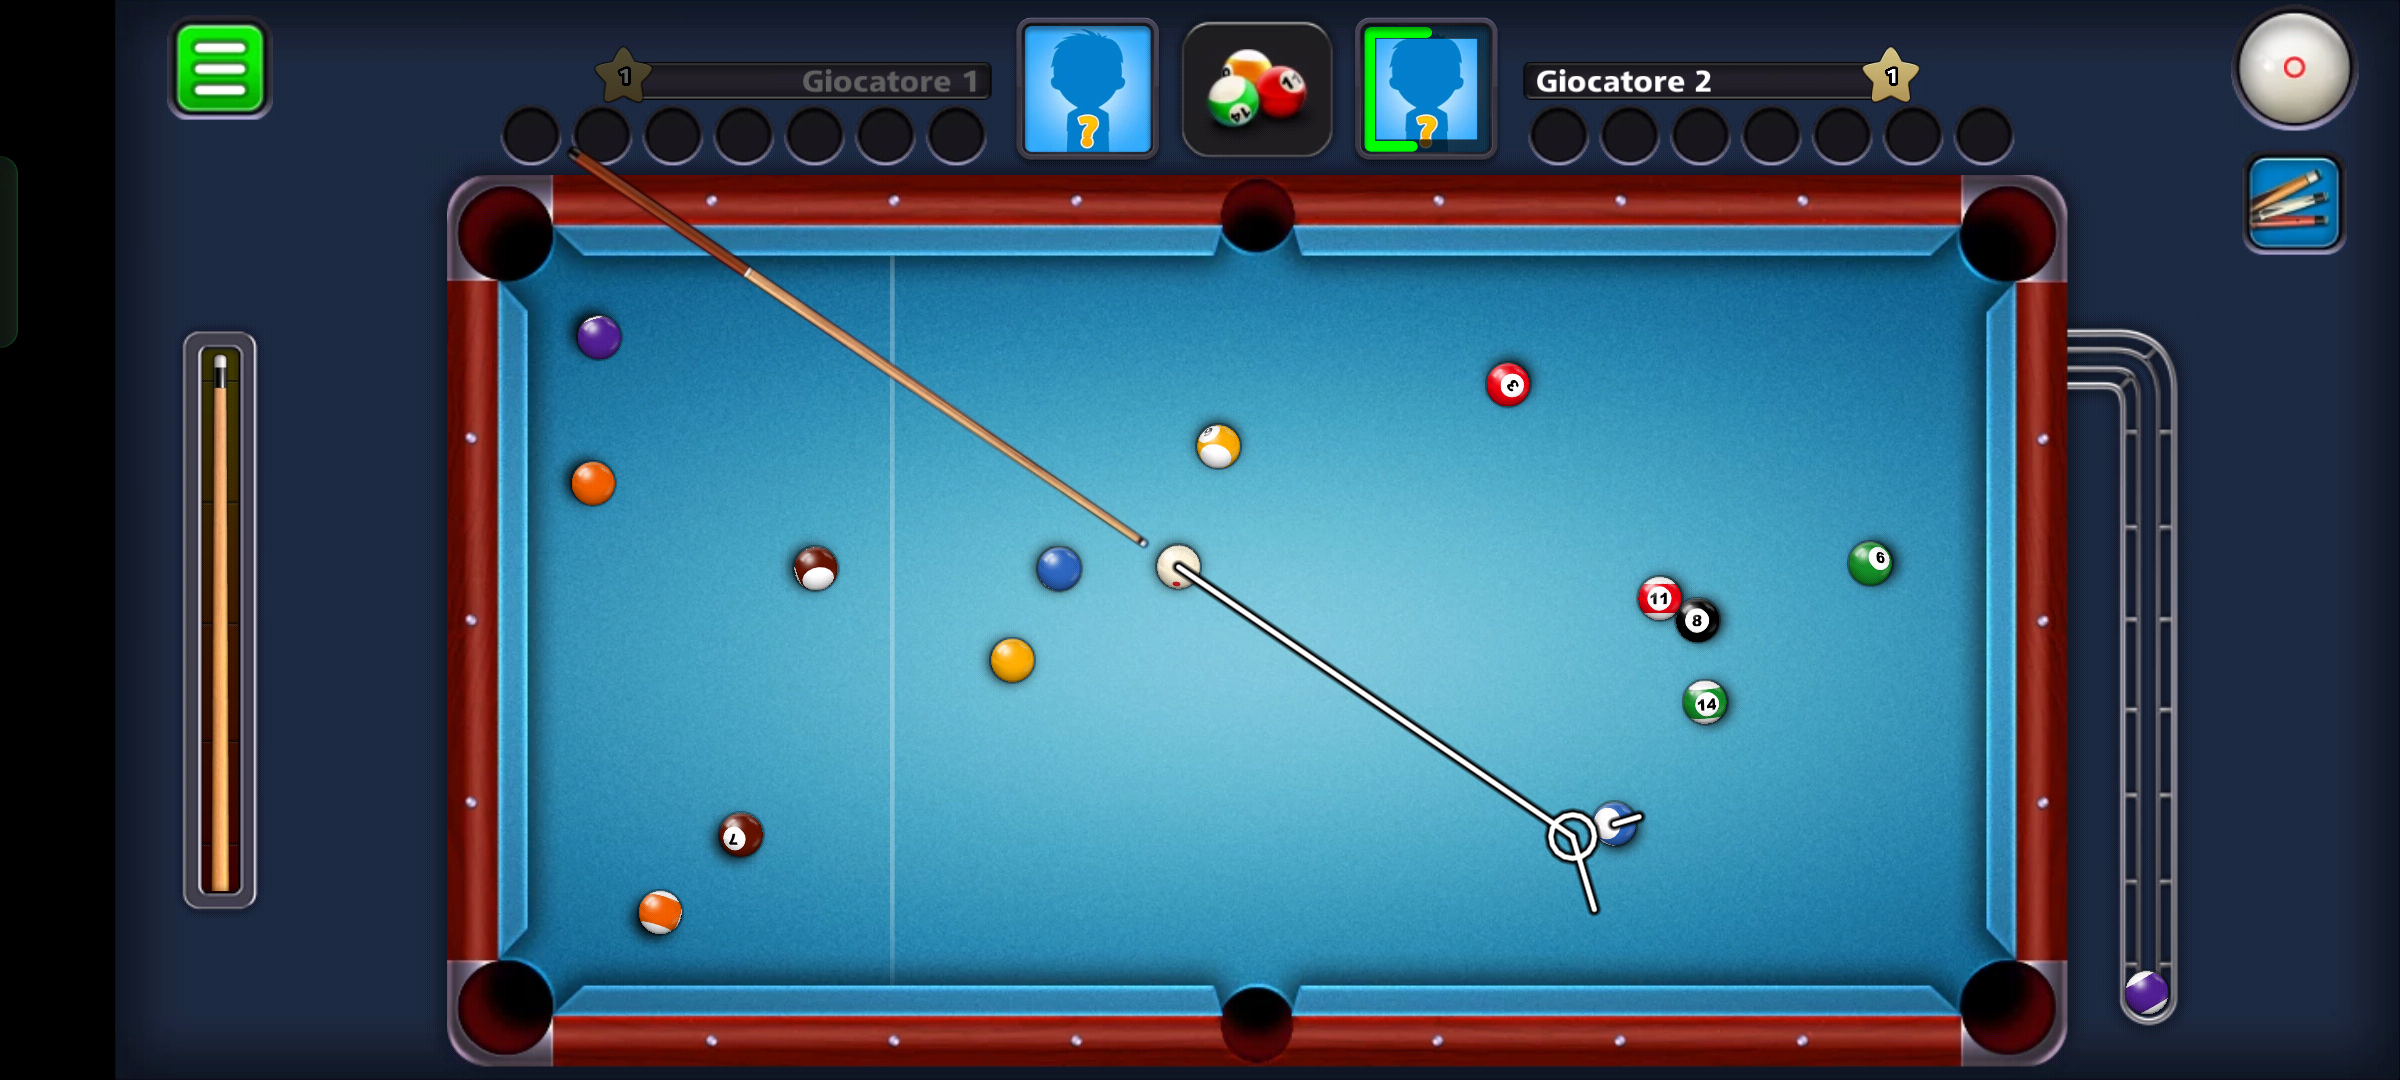
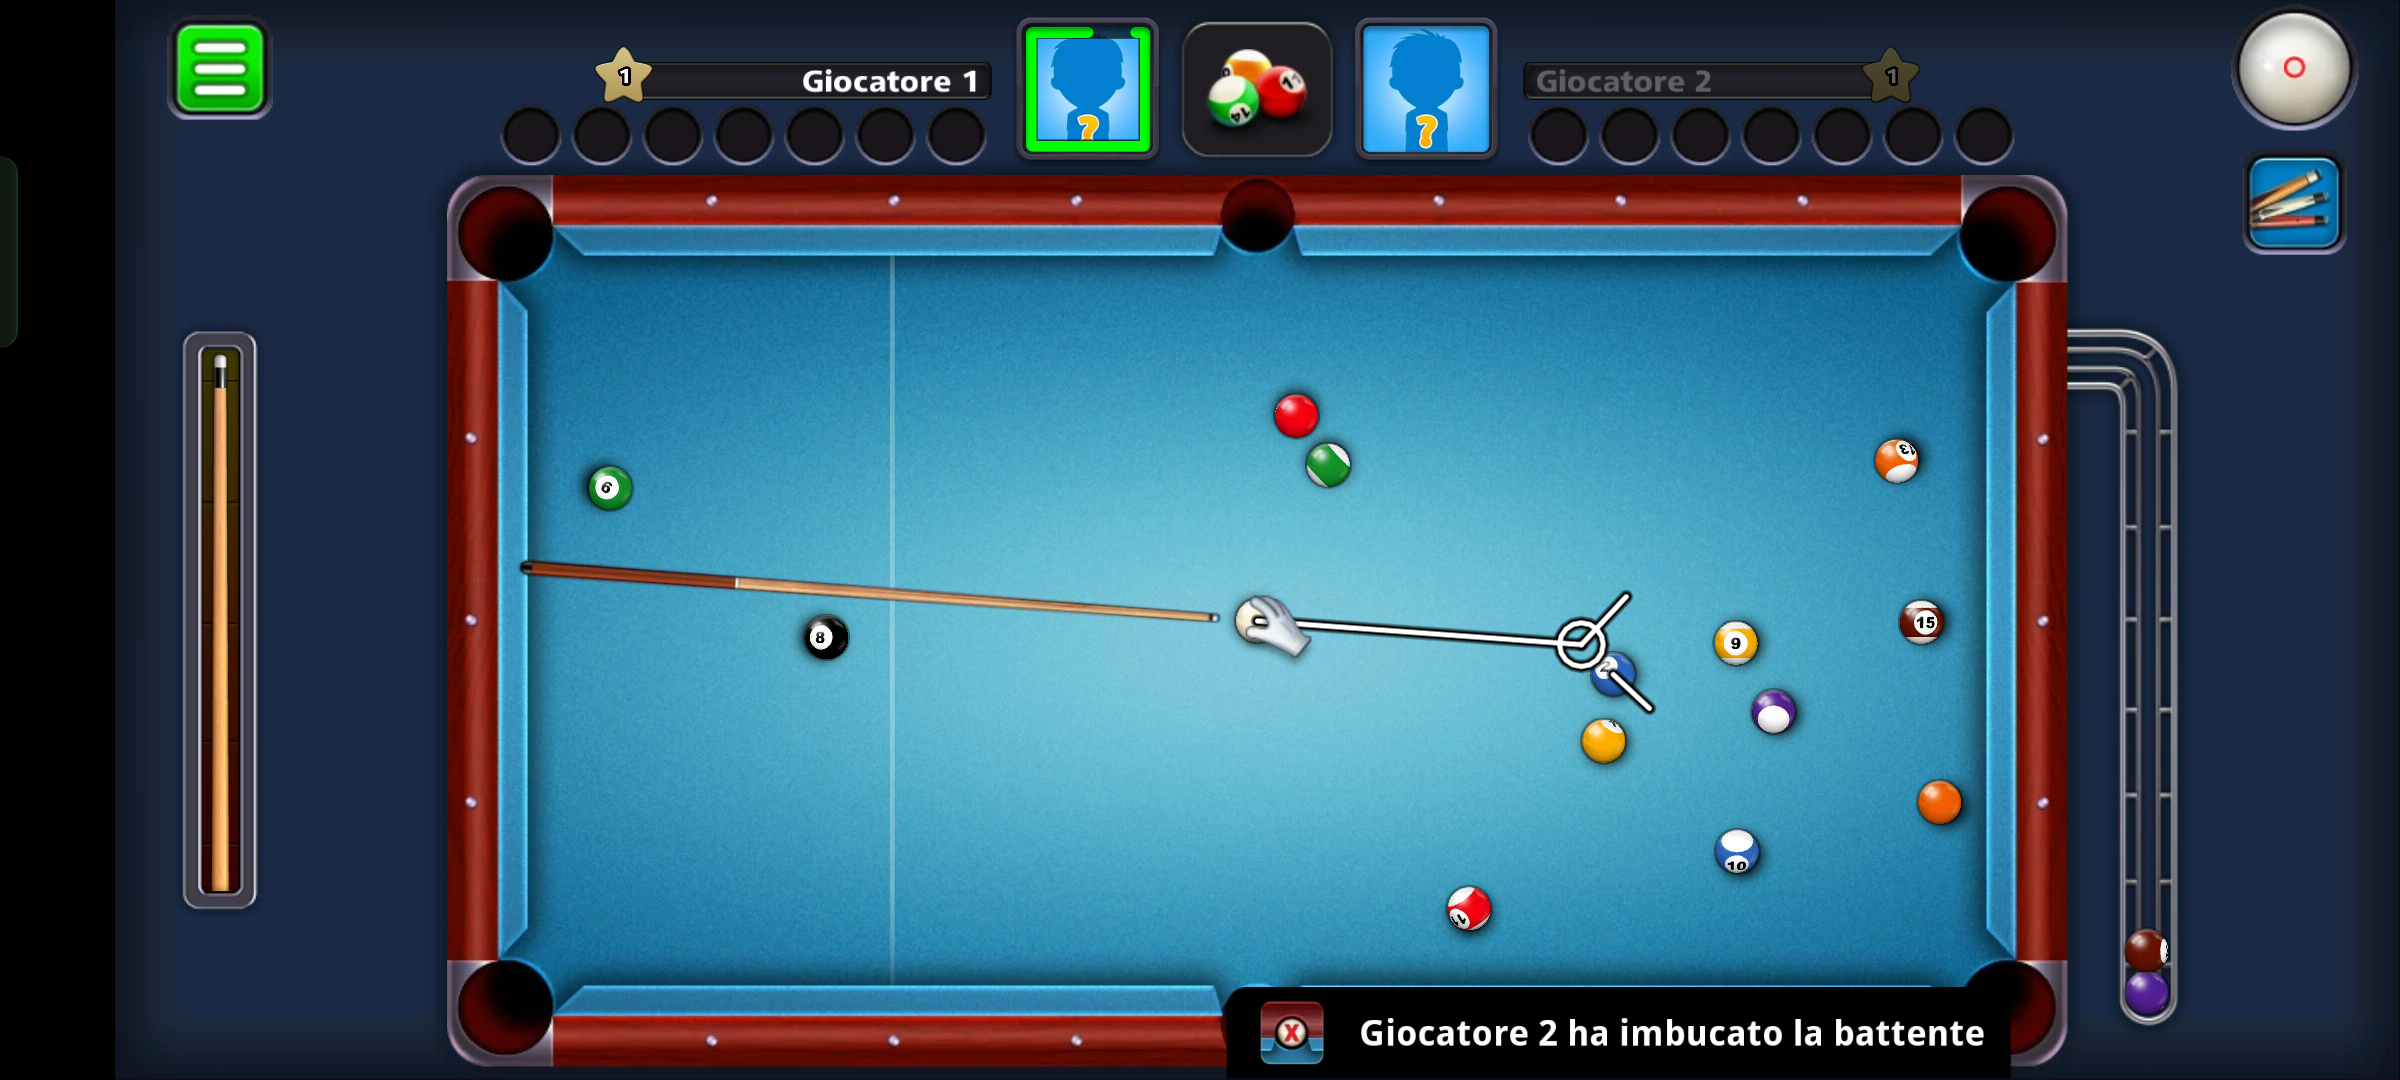
rileva bene palla mirino e palle :))

diff --git a/Brain/AI/src/vision/objectsFinder.py b/Brain/AI/src/vision/objectsFinder.py
@@ -364,77 +364,55 @@ class ObjectsFinder:
         return circularity >= circularity_threshold
 
 
-    def _find_balls_pool_contour(self, search_info:Circle):
-        canny_threshold = search_info.canny_threshold
-        min_radius = search_info.min_radius
+    def _find_balls_pool_contour(self, search_info:Circle = None, area_threshold=50, circularity_threshold=0.24):
         
         gray = self.__gray
-        # threshold
-        # 1. Filtro Bilaterale per ridurre il rumore preservando i bordi
-        filtered = cv2.bilateralFilter(gray, d=9, sigmaColor=8, sigmaSpace=100)
-
-        # 2. Dilatazione per connettere eventuali spazi vuoti nei bordi
-        kernel_dilate = cv2.getStructuringElement(cv2.MORPH_ELLIPSE, (3, 3))
-        dilated = cv2.dilate(filtered, kernel_dilate, iterations=1)
-
-        # 3. Rilevamento dei bordi con Canny
-        #    Soglia inferiore = canny_threshold, superiore = canny_threshold * 2 (invece di 2.5)
-        canny = cv2.Canny(dilated, canny_threshold, int(canny_threshold * 2.0))
-
-        # 4. Operazione morfologica di Closing per chiudere lacune nei bordi
-        kernel = cv2.getStructuringElement(cv2.MORPH_ELLIPSE, (4, 4))
-        canny = cv2.morphologyEx(canny, cv2.MORPH_CLOSE, kernel)
-
-        # 5. Estrazione dei contorni
-        contours, _ = cv2.findContours(canny, cv2.RETR_TREE, cv2.CHAIN_APPROX_SIMPLE)
-
-        # 6. Filtraggio dei contorni che rappresentano palle (forme circolari)
-        #circles = [cnt for cnt in contours if self.bp_is_circle(cnt)]
-        circles = contours
-        if self.debug and not self.validation:
-            # Visualizzazione di debug: disegna tutti i contorni sull'immagine canny
-            #canny_color = cv2.cvtColor(canny, cv2.COLOR_GRAY2RGB)
-            #cv2.drawContours(canny_color, contours, -1, (255, 0, 0), 1)
-            """plt.imshow(canny_color)
-            plt.show()"""
+        blurred = cv2.GaussianBlur(gray, (5, 5), 0)
+    
+        # Thresholding adattivo per rilevare bordi e forme
+        thresh = cv2.adaptiveThreshold(blurred, 255, cv2.ADAPTIVE_THRESH_GAUSSIAN_C, 
+                                    cv2.THRESH_BINARY_INV, 11, 2)
+        
+        # Trova i contorni
+        contours, hierarchy = cv2.findContours(thresh, cv2.RETR_TREE, cv2.CHAIN_APPROX_SIMPLE)
+        hierarchy = hierarchy[0]
+        
         gray_color = cv2.cvtColor(gray, cv2.COLOR_GRAY2RGB)
         balls = []
-        if circles is not None:
-            for circle in circles:
-                (center), r = cv2.minEnclosingCircle(circle)
-                if r < min_radius:
-                    continue
-
-                if search_info.min_radius is not None:
-                    max_radius = search_info.max_radius
-                    if r > max_radius:
-                        continue
-                
+        if contours is not None:
+            for i, cnt in enumerate(contours):
+                area = cv2.contourArea(cnt)
+                (center), r = cv2.minEnclosingCircle(cnt)                
                 # Ottiene il colore del pixel al centro dalla versione già filtrata (o dalla immagine blurred se disponibile)
                 x = int(center[0])
                 y = int(center[1])
                 r = int(r)
-
-                if search_info.area != None:
+                    
+                if search_info != None:
                     x_min, y_min, x_max, y_max = search_info.area
                     if not (x_min  <= x <= x_max and 
                             y_min +70 <= y <= y_max -70):
                         continue
 
+                    if not (search_info.min_radius <= r <= search_info.max_radius):
+                        #print("Scartata per radius")
+                        continue
+                
+                circularity = area / (math.pi * r * r)
+                if circularity < circularity_threshold:
+                    continue
+                
+                # Controlla se non è un contorno esterno
+                if hierarchy[i][3] == -1:  # Se non ha un genitore, è esterno
+                    continue
+
                 color = np.array(self.__blurred[y, x])
                 if self.debug and not self.validation:
                     print(f"Found ball pool:({x}, {y}): {color}")
-                # Disegna il cerchio sull'immagine di output
-                """cv2.circle(self.__img_matrix, (x, y), r, (0, 255, 0), 2)
-                cv2.putText(self.__img_matrix, f"({x}, {y})", (x + 10, y),
-                            cv2.FONT_HERSHEY_SIMPLEX, 0.7, (255, 255, 255), 2)"""
+            
                 balls.append(OutputCircle(x, y, r, color.tolist()))
-            if self.debug and not self.validation:
-                """plt.imshow(cv2.cvtColor(self.__img_matrix, cv2.COLOR_BGR2RGB))
-                plt.show()
-                cv2.waitKey(0)"""
 
-        #balls = self.filter_duplicate_circles(balls)
+        balls = self.filter_duplicate_circles(balls)
         return balls
     
     def _find_pockets_pool_contour(self, search_info:Circle):

diff --git a/Brain/AI/src/ball_pool/detect/new_detect.py b/Brain/AI/src/ball_pool/detect/new_detect.py
@@ -520,8 +520,6 @@ class MatchingBallPool:
                 cv2.rectangle(img_copy, (x, y), (x+width, y+heigth), (255, 255, 255), 5)
         """
 
-        
-
         # Disegna le aim_lines (in viola)
         """if self.__aim_lines != None:
             print(f"Aim lines show {len(self.__aim_lines)}")
@@ -543,9 +541,9 @@ class MatchingBallPool:
             cv2.circle(img_copy, (x, y), r, (60,20,220), 4)
             cv2.circle(img_copy, (x, y), 6, (0, 0, 0), 1)
             # Testo con bordo nero e testo verde
-            cv2.putText(img_copy, f"({x}, {y}) {r}", (x + r, y),
+            cv2.putText(img_copy, f"({x}, {y}) {r}", (x - 200, y -50),
                         cv2.FONT_HERSHEY_SIMPLEX, 1, (0, 0, 0), 4)
-            cv2.putText(img_copy, f"({x}, {y}) {r}", (x + r, y),
+            cv2.putText(img_copy, f"({x}, {y}) {r}", (x - 200, y - 50 ),
                         cv2.FONT_HERSHEY_SIMPLEX, 1, (60,20,220), 2)
             
 
